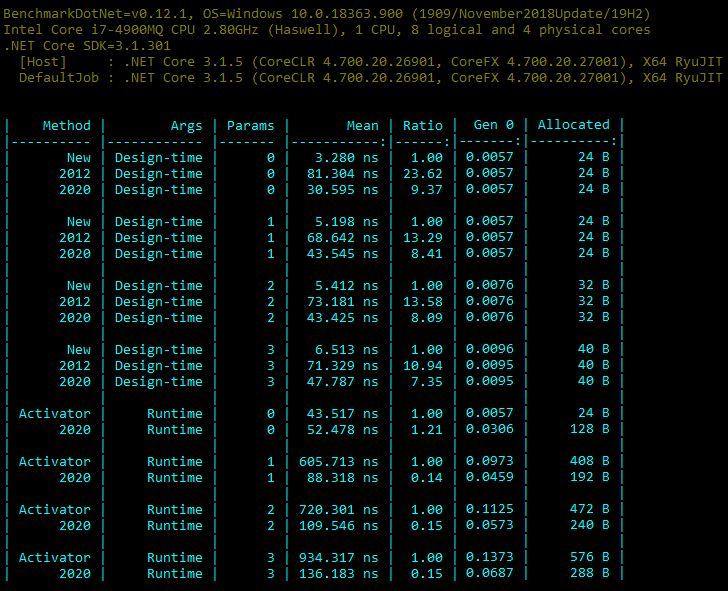
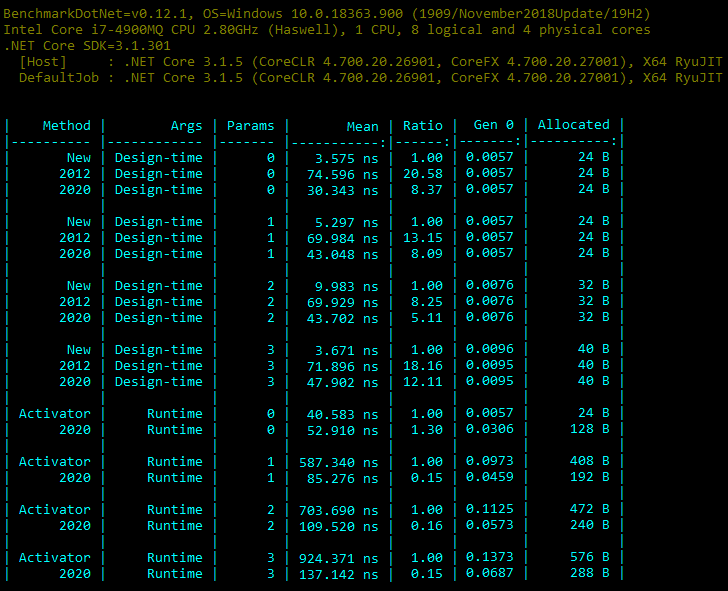
Updated results

diff --git a/README.md b/README.md
@@ -47,9 +47,9 @@ Example benchmarking results for .NET Core 3.1 are shown below:
 
 To note:
 
-1. My 2020 design-time code is between **1.5** and **2.7** times **faster** than my 2012 code.
+1. My 2020 design-time code is between **1.5** and **2.5** times **faster** than my 2012 code.
 
-2. My 2020 runtime code is between **6.6** and **6.9** times **faster** than `Activator.CreateInstance` for all 
-   except the parameterless case. It's **1.2** times **slower** for parameterless constructors.
+2. My 2020 runtime code is between **6.7** and **6.9** times **faster** than `Activator.CreateInstance` for all 
+   except the parameterless case. It's **1.3** times **slower** for parameterless constructors.
 
 Further discussion can be found on [my blog](https://agileobjects.co.uk/create-instance-of-type-net-core).
